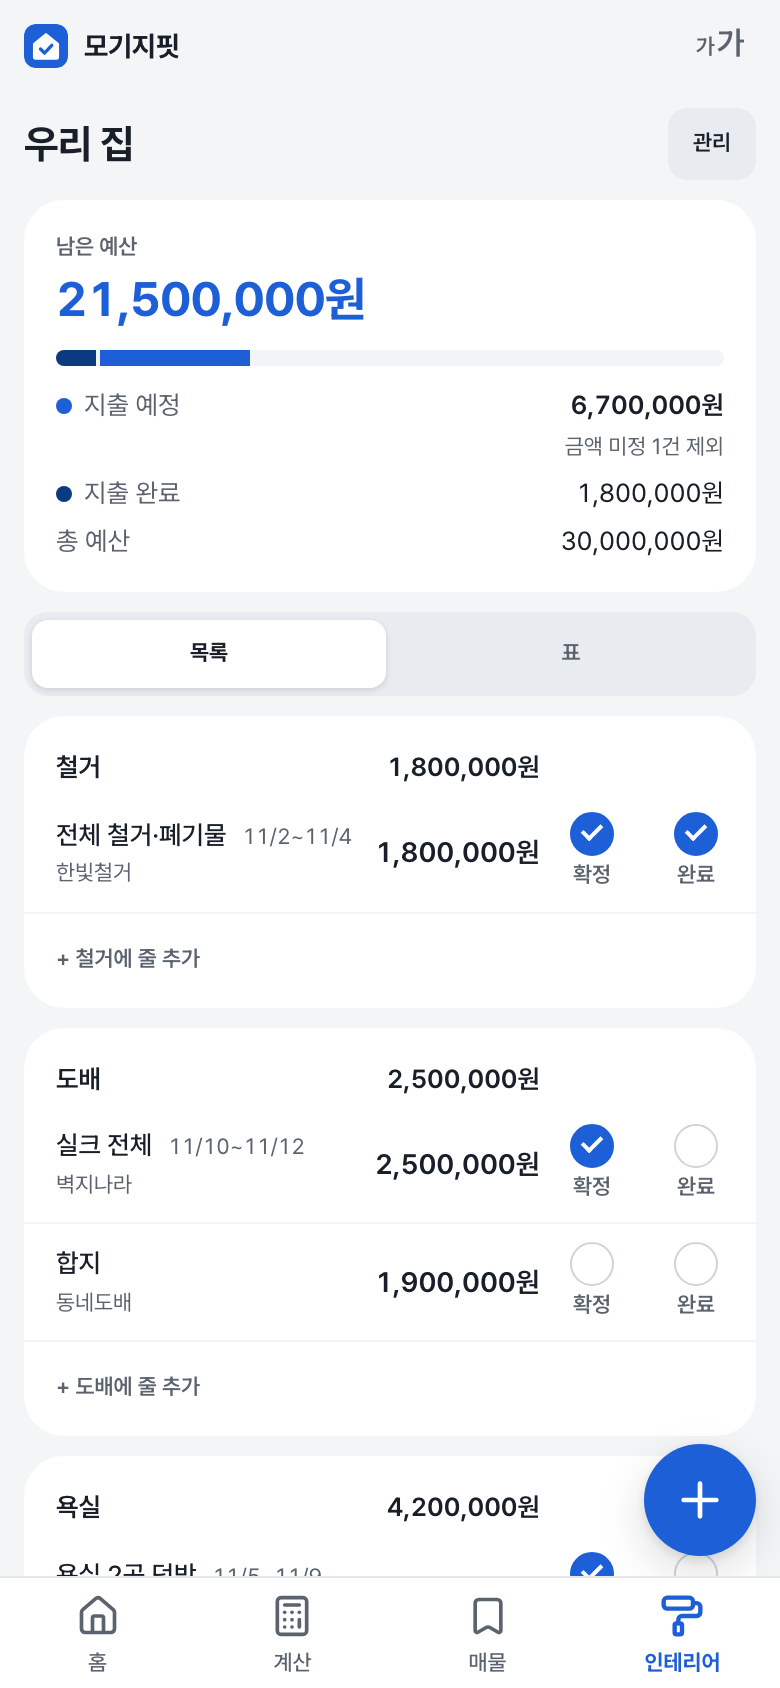
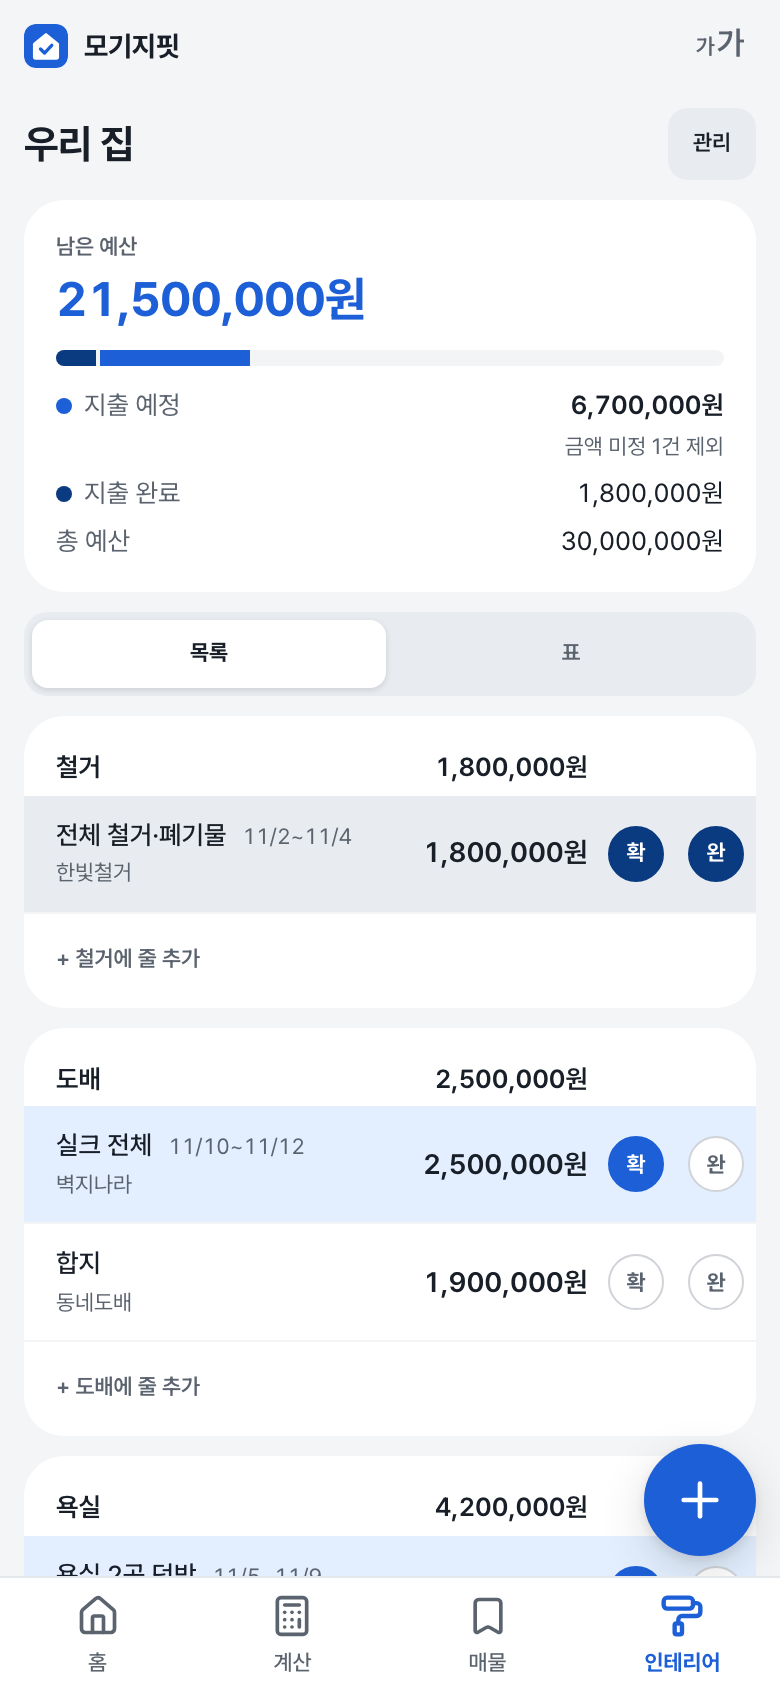
feat: 인테리어 줄 확정·완료를 한 글자 원과 배경색으로 줄임 (#62)

Changed region(s): [[0.0308, 0.6161, 0.9846, 0.8009], [0.0308, 0.8626, 0.9846, 0.955], [0.4923, 0.4313, 0.9538, 0.5237]]

diff --git a/src/containers/Mortgage/Home/components/LineRow.tsx b/src/containers/Mortgage/Home/components/LineRow.tsx
@@ -23,10 +23,10 @@ type LineRowProps = {
   onCheckChange: (check: LineCheck, isChecked: boolean) => void;
 };
 
-/** 줄 오른쪽 체크 두 개(보이는 글자 = 접근 가능한 이름의 끝말) */
-const LINE_CHECKS: { check: LineCheck; label: string }[] = [
-  { check: "confirm", label: "확정" },
-  { check: "done", label: "완료" },
+/** 줄 오른쪽 체크 두 개. 화면에는 원 안의 한 글자(`glyph`)이고, 보조기기는 `label`을 접근 가능한 이름의 끝말로 읽는다 */
+const LINE_CHECKS: { check: LineCheck; label: string; glyph: string }[] = [
+  { check: "confirm", label: "확정", glyph: "확" },
+  { check: "done", label: "완료", glyph: "완" },
 ];
 
 /** 보조기기가 읽는 역할 이름. 버튼이면서 끌어 옮길 수 있는 줄이다(저장 목록 줄과 같은 말) */
@@ -34,6 +34,7 @@ const ROLE_DESCRIPTION = "순서를 바꿀 수 있는 버튼";
 
 /**
  * 줄 하나: [여는 버튼(세부내용 · 일정 / 업체 · 견적)]과 [확정]·[완료] 체크를 형제로 둔다(버튼 안에 체크박스를 넣지 않는다).
+ * 상태는 줄 배경으로도 보인다: 확정은 옅은 코발트, 완료는 회색이다(색만으로 구분하지 않게 원 안 글자의 채움이 함께 바뀐다).
  * [완료](구매 완료)를 켜면 그 견적을 확정도 하고, [확정]을 끄면 완료도 풀린다(`interiorLineWrites`).
  * 비고(항목 메모)와 견적 없는 줄의 "예산 n원"은 목록에 그리지 않는다(줄 시트·표·CSV·인쇄에는 있다, 스펙 interior-tbd-amount 추가 요청).
  * 체크는 저장된 값 그대로이고, 저장 중에는 원래 상태로 비활성이다. 견적 없는 줄의 체크는 숨기지 않고 비활성으로 이유를 붙인다.
@@ -60,6 +61,13 @@ function LineRow({ trade, row, isSaving, isDraggable, onOpen, onCheckChange }: L
   });
   const dragProps = isDraggable ? { ...attributes, ...listeners } : {};
   // 일정 글자를 끌기 안내(dnd-kit의 aria-describedby) 앞에 둔다. 덮어쓰면 끌기 안내가 사라진다
+  const rowClassName = isDragging
+    ? styles.placeholderRow
+    : row.isDone
+      ? styles.doneRow
+      : row.isConfirmed
+        ? styles.confirmedRow
+        : styles.row;
   const describedBy = [
     interiorScheduleTextOf(row.item) === null ? undefined : scheduleId,
     isDraggable ? attributes["aria-describedby"] : undefined,
@@ -70,7 +78,7 @@ function LineRow({ trade, row, isSaving, isDraggable, onOpen, onCheckChange }: L
   return (
     <li
       ref={setNodeRef}
-      className={isDragging ? styles.placeholderRow : styles.row}
+      className={rowClassName}
       style={{ transform: CSS.Translate.toString(transform), transition }}
     >
       <button
@@ -85,7 +93,7 @@ function LineRow({ trade, row, isSaving, isDraggable, onOpen, onCheckChange }: L
       >
         <LineSummary row={row} scheduleId={scheduleId} />
       </button>
-      {LINE_CHECKS.map(({ check, label }) => (
+      {LINE_CHECKS.map(({ check, label, glyph }) => (
         <label key={check} className={styles.confirm}>
           <input
             type="checkbox"
@@ -96,7 +104,7 @@ function LineRow({ trade, row, isSaving, isDraggable, onOpen, onCheckChange }: L
             aria-describedby={quote === null ? noQuoteId : undefined}
             onChange={(event) => onCheckChange(check, event.currentTarget.checked)}
           />
-          <span aria-hidden="true">{label}</span>
+          <span aria-hidden="true">{glyph}</span>
         </label>
       ))}
       {quote === null && (

diff --git a/src/containers/Mortgage/Home/components/PlanLines.module.css b/src/containers/Mortgage/Home/components/PlanLines.module.css
@@ -5,7 +5,7 @@
 .lines {
   --add-fab-size: 56px;
   /* 확정·완료 칸 하나의 폭. 묶음 합계를 줄 금액 열에 맞출 때도 쓴다. */
-  --check-column: 52px;
+  --check-column: 40px;
 
   display: flex;
   flex-direction: column;
@@ -167,6 +167,18 @@
   align-items: stretch;
 }
 
+/* 확정한 줄: 옅은 코발트 면(흐린 글자 대비 5.2:1). 묶음 카드 가장자리까지 채운다. */
+.confirmedRow {
+  composes: row;
+  background: var(--color-accent-soft);
+}
+
+/* 구매 완료한 줄: 회색 면으로 한 걸음 물러난다(흐린 글자 대비 5:1). */
+.doneRow {
+  composes: row;
+  background: var(--color-raised-on-bg);
+}
+
 .openButton {
   display: flex;
   flex: 1;
@@ -294,32 +306,30 @@
   color: var(--color-text-muted);
 }
 
-/* 확정 체크 칸. 누르는 자리(label 전체)는 52×44px 이상 */
+/* 확정·완료 체크 칸. 누르는 자리(label 전체)는 40×44px 이상, 원 안 글자는 칸 가운데에 겹친다. */
 .confirm {
+  position: relative;
   display: flex;
   flex: none;
-  flex-direction: column;
   align-items: center;
   justify-content: center;
-  gap: 2px;
   width: var(--check-column);
   min-height: 44px;
-  padding: 0 var(--space-2) 0 0;
   color: var(--color-text-muted);
   font-size: var(--fs-tiny);
-  font-weight: 600;
+  font-weight: 700;
+  line-height: 1;
   cursor: pointer;
 }
 
 /*
- * 네이티브 체크박스를 22px 원으로 그린다(키보드·보조기기 동작은 체크박스 그대로, 85㎡ 스위치와 같은 방식).
- * 꺼짐 = 회색 테두리 원, 켜짐 = 코발트 채움 + 흰 체크(::before의 꺾인 선).
+ * 네이티브 체크박스를 28px 원으로 그린다(키보드·보조기기 동작은 체크박스 그대로).
+ * 꺼짐 = 회색 테두리 원 + 흐린 글자, 켜짐 = 채움 + 흰 글자. 확정은 코발트, 완료는 예산 막대의 지출 완료와 같은 진한 코발트다.
  */
 .confirm input {
-  position: relative;
   flex: none;
-  width: 22px;
-  height: 22px;
+  width: 28px;
+  height: 28px;
   margin: 0;
   border: 1.5px solid var(--color-control);
   border-radius: 50%;
@@ -331,16 +341,9 @@
     border-color 120ms ease-out;
 }
 
-.confirm input::before {
+.confirm span {
   position: absolute;
-  top: 3px;
-  left: 6.5px;
-  width: 6px;
-  height: 10px;
-  border: solid transparent;
-  border-width: 0 2px 2px 0;
-  content: "";
-  transform: rotate(45deg);
+  pointer-events: none;
 }
 
 .confirm input:checked {
@@ -348,8 +351,13 @@
   background: var(--color-primary);
 }
 
-.confirm input:checked::before {
-  border-color: var(--color-on-primary);
+.doneRow .confirm input:checked {
+  border-color: var(--color-accent-ink);
+  background: var(--color-accent-ink);
+}
+
+.confirm input:checked + span {
+  color: var(--color-on-primary);
 }
 
 .confirm input:focus-visible {
@@ -369,10 +377,18 @@
   }
 }
 
-/* 고대비 모드: 채움 대신 체크 표시(::before)가 시스템 색으로 보이게 한다. */
+/* 고대비 모드: 채움을 시스템 강조색으로 그려 켜짐이 보이게 한다. */
 @media (forced-colors: active) {
-  .confirm input:checked::before {
-    border-color: CanvasText;
+  .confirm input:checked,
+  .doneRow .confirm input:checked {
+    border-color: Highlight;
+    background: Highlight;
+    forced-color-adjust: none;
+  }
+
+  .confirm input:checked + span {
+    color: HighlightText;
+    forced-color-adjust: none;
   }
 }
 

diff --git a/.cony/log.md b/.cony/log.md
@@ -798,3 +798,10 @@
 - 2026-10-31 되돌림(리드 자체): 10-30에 넣은 답 면(진한 남색)을 뺌. 흰 면 위 큰 숫자·코발트 한 가지로 위계를 세움. 계산 결과의 답은 영수증 합계처럼 잉크 선 사이에 둠.
 - 2026-10-31 AI(리드): 브라우저 기본 표시 제거(select 화살표, details 삼각형, ▾ 글자), 매물 펼침의 카드 속 카드·이름 이중 표시 제거, 인테리어 요약에 예산 막대 추가, 묶음 합계를 줄 금액 열에 맞춤, 탭의 Material 알약 제거, 시트 등장 동작, 한글 어절 줄바꿈(keep-all), 계정 자리를 기능 카드 아래로.
 - 사용자 확인 필요(화면 취향): ① 남색 면 제거 ② 인테리어 요약에서 지출 예정을 작게(U6 기본값 변경) ③ 계정 자리를 카드 아래로
+
+## 2026-11-01 인테리어 줄 상태를 작게 + 배경색
+
+- 요청: "확정 완료를 줄여보일 방법없나? 배경색으로 알아볼 수 있게 처리하고"
+- AI: 체크 두 개(확정·완료)와 보조기기 이름은 그대로 두고(골든 유지), 글자 라벨을 원 안의 한 글자(확·완)로 줄였다. 칸 폭 52→40px. 줄 배경은 확정 = 옅은 코발트, 완료 = 회색. 색만으로 구분하지 않게 원 채움도 함께 바뀐다.
+- 사용자 확인 필요(화면 취향): 한 글자 원 표기, 완료 줄을 회색으로 물리는 것, 누르는 칸 폭 40px(높이는 44px 유지).
+- 못 본 것: 실기기.

diff --git a/.cony/board.md b/.cony/board.md
@@ -1,6 +1,6 @@
 # 업체 미정 · 우리 집 줄 끌어 옮기기(2단계 배포)
 
-> 상태: 완료 · 마지막 업데이트: 2026-10-30 16:15
+> 상태: 완료 · 마지막 업데이트: 2026-10-31 20:30
 
 ## 태스크
 
@@ -41,7 +41,7 @@
 
 ## PR
 
-[#59](https://github.com/hwanyoungChoi/mortgage-fit/pull/59) · CI 통과 · 머지됨(3b6c4f0)
+[#61](https://github.com/hwanyoungChoi/mortgage-fit/pull/61) · CI 통과 · 머지됨(e2c7516)
 
 <!-- spec: specs/interior-vendor-tbd-line-order.md -->
 <!-- lead: local_87d4390f-e2ba-4e87-a5d7-a3648355a974 -->
